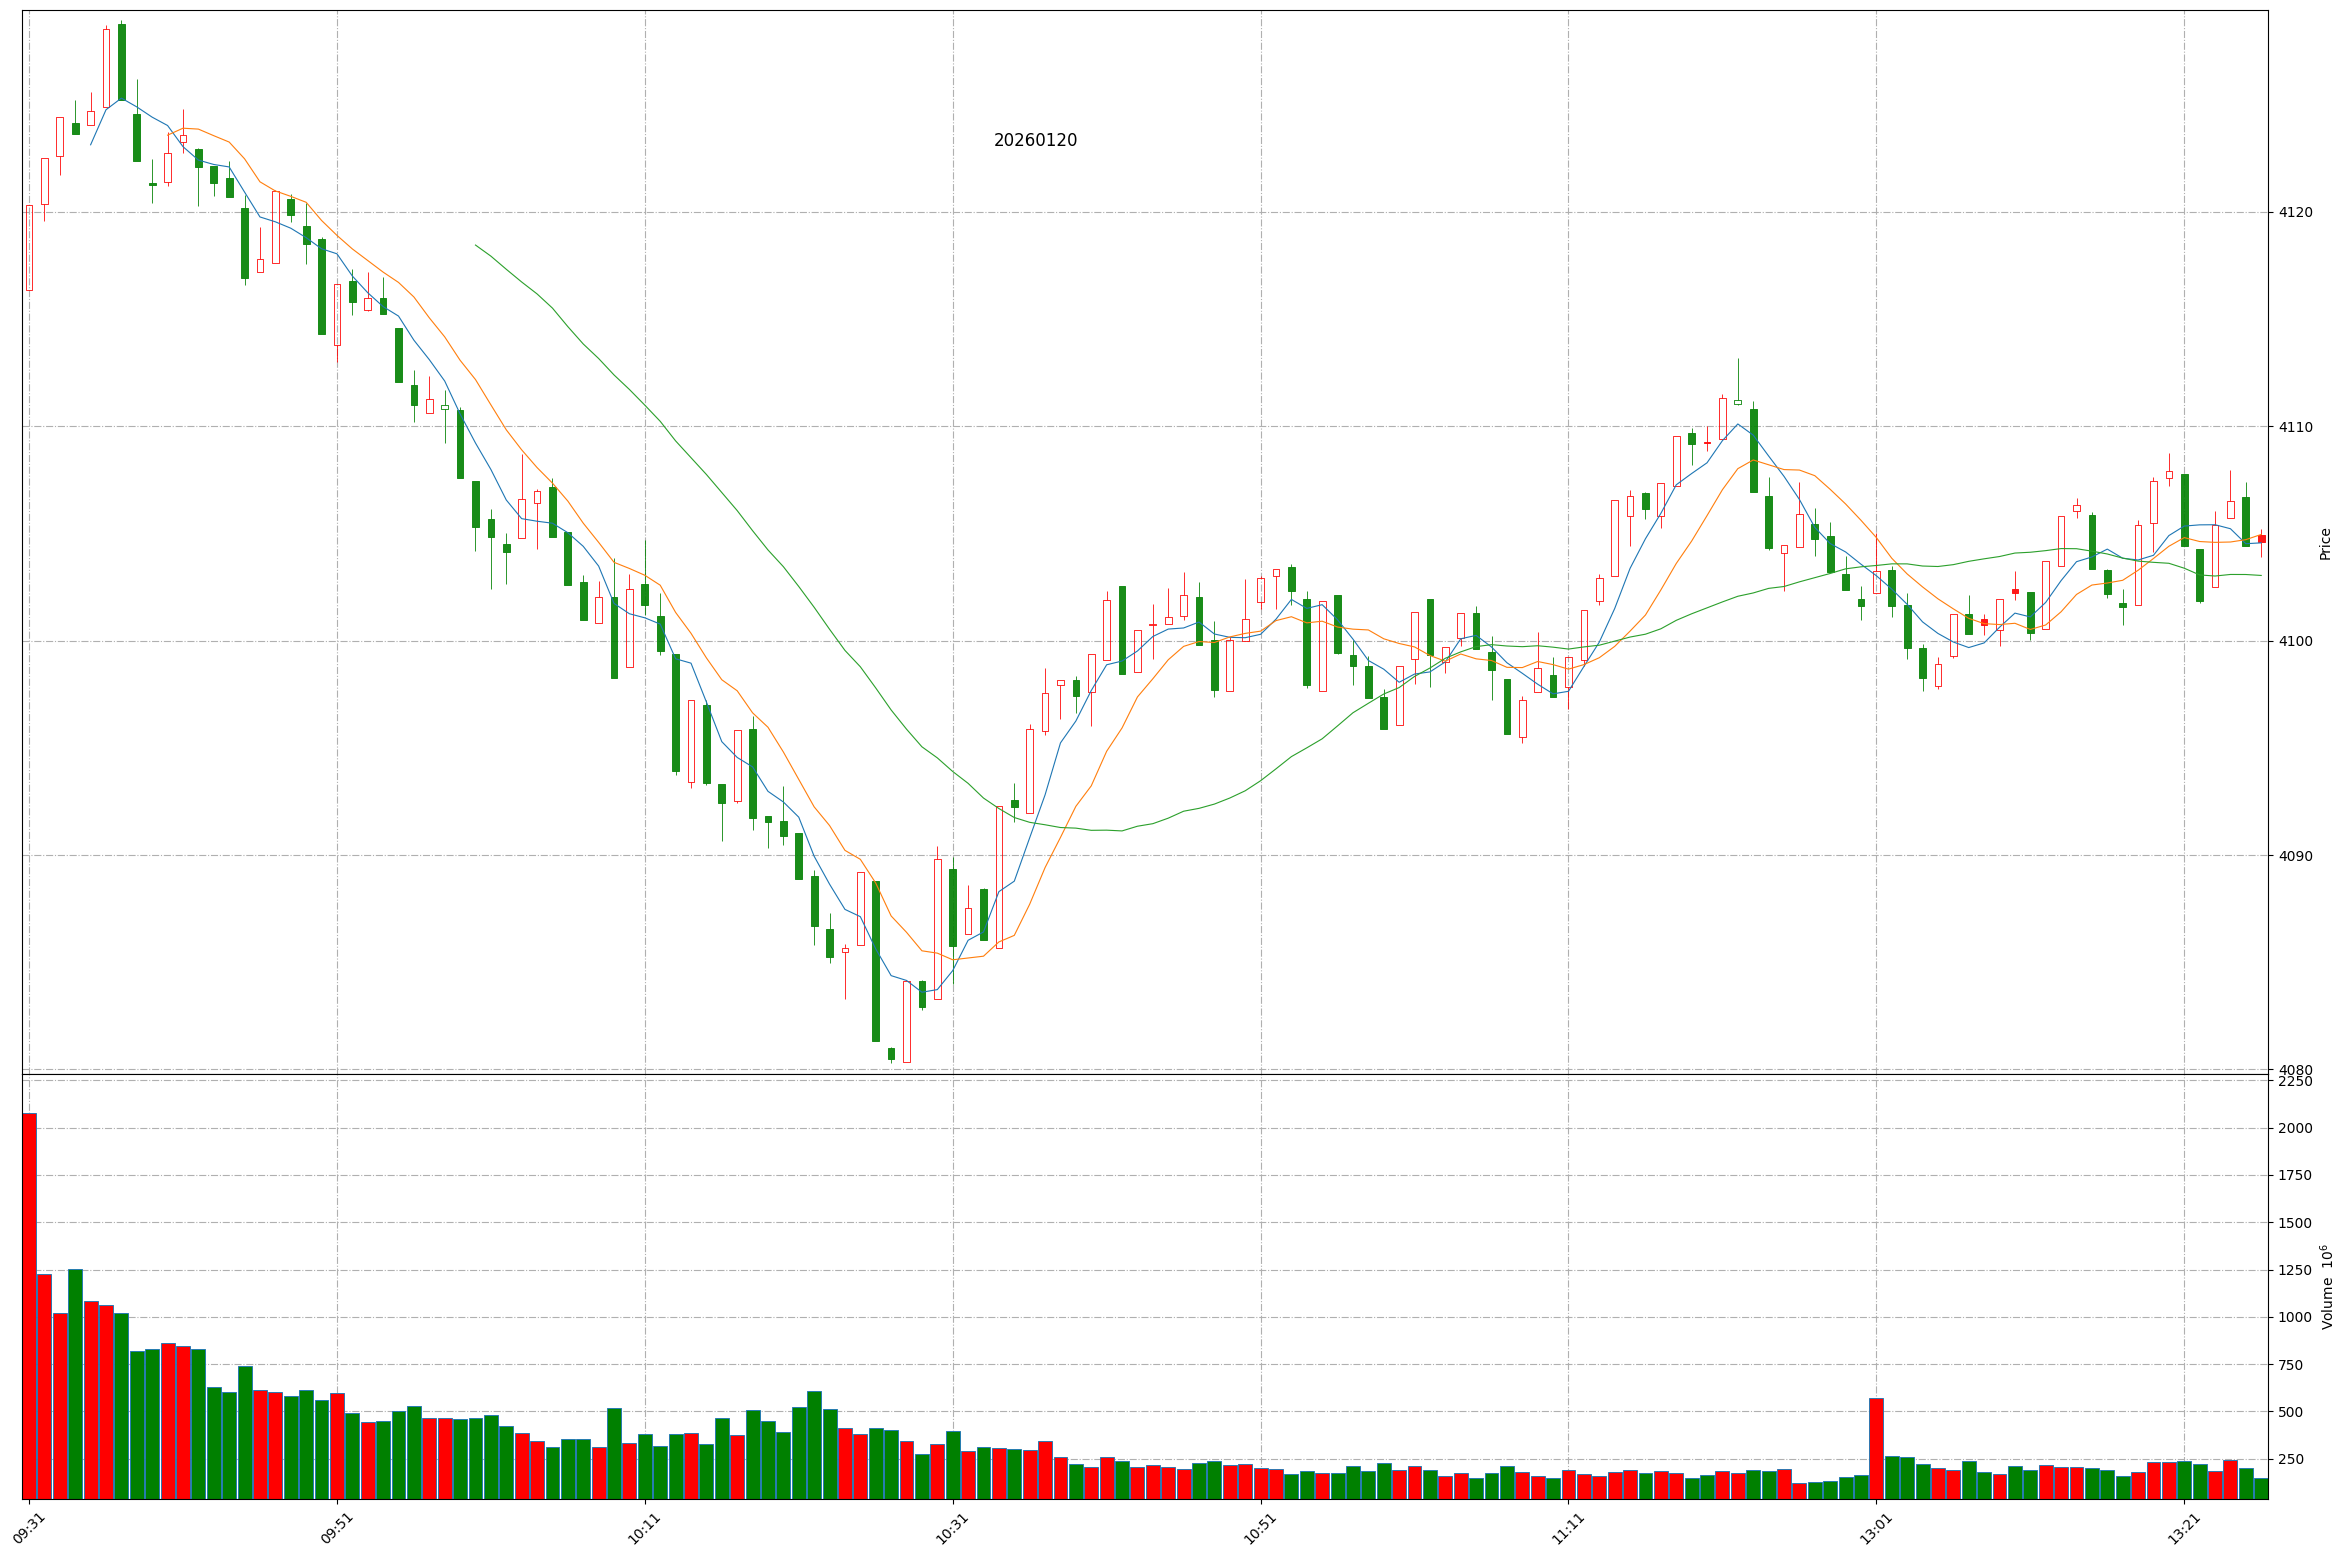
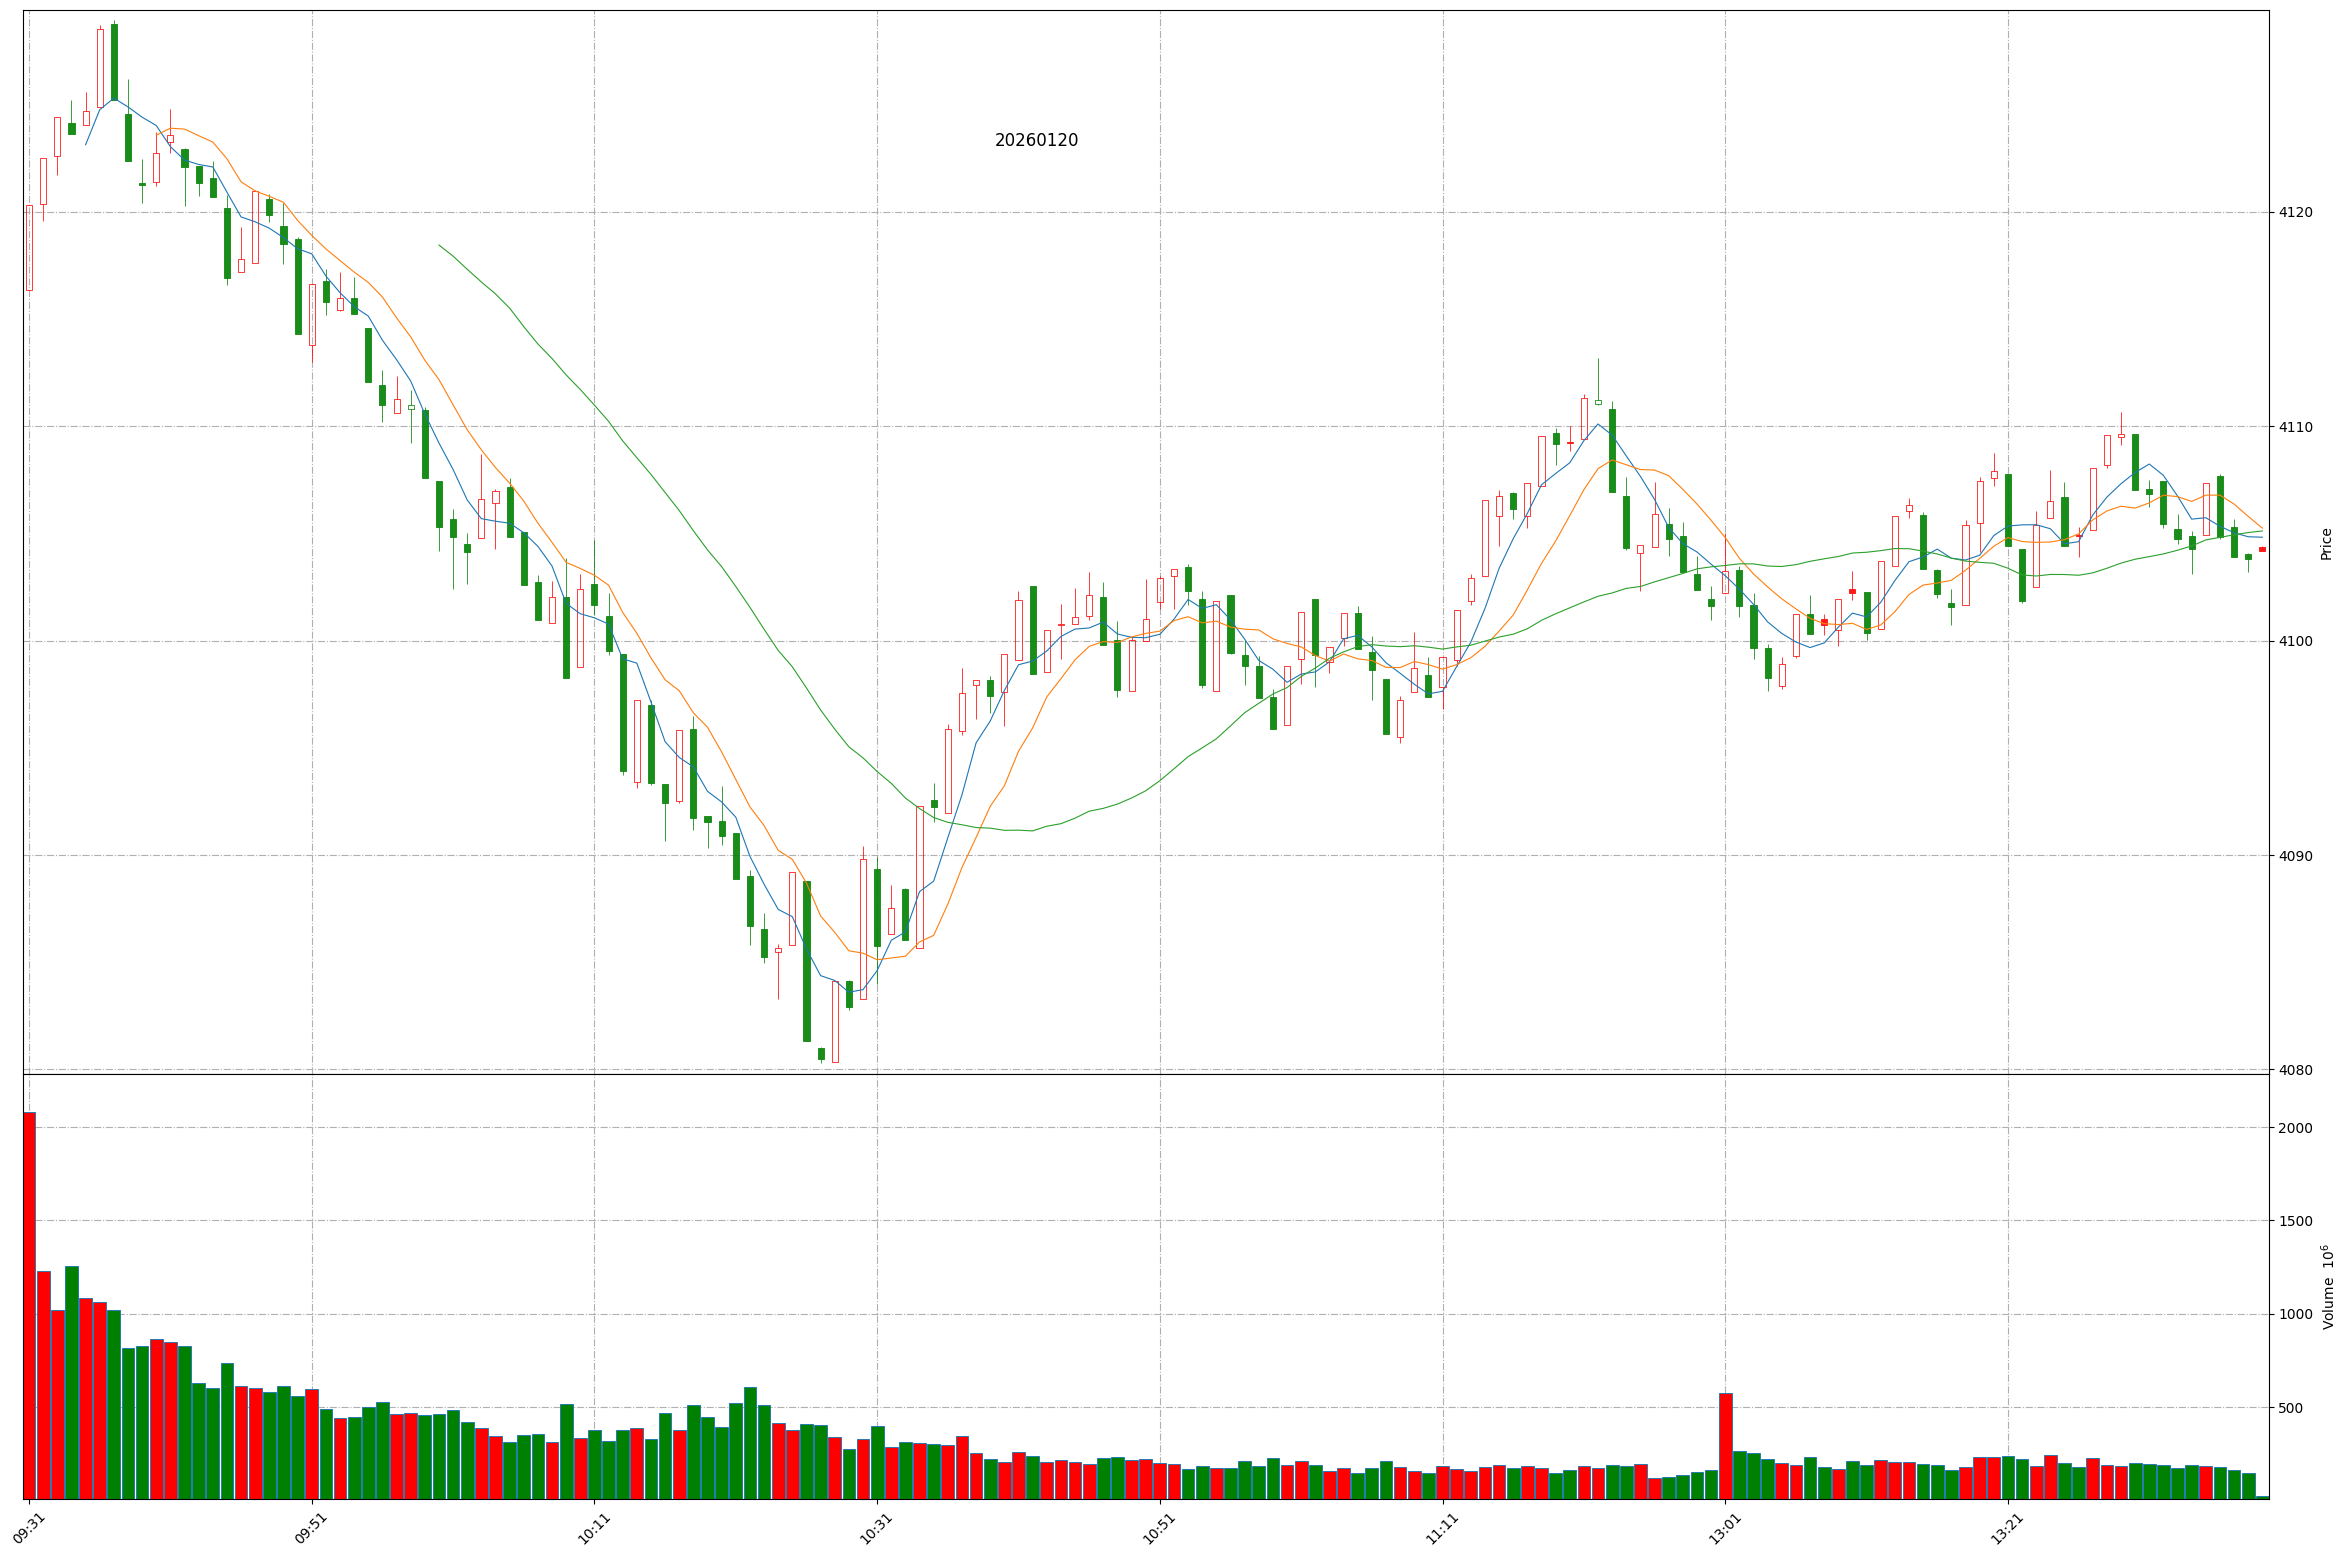
Github action update at 2026-01-20 13:38:37.

diff --git a/README.md b/README.md
@@ -1,11 +1,11 @@
 
 # Daily-A-share-market-quotes 每日 A 股指数（5min 更新）- 20260120
 
-### 上证指数 20260120 13:26
+### 上证指数 20260120 13:38
 ![](./fig/2026/1/20260120-sh000001.png)
 
-### 深证成指 20260120 13:26
+### 深证成指 20260120 13:38
 ![](./fig/2026/1/20260120-sz399001.png)
 
-### 北证50 20260120 13:26
+### 北证50 20260120 13:38
 ![](./fig/2026/1/20260120-bj899050.png)
